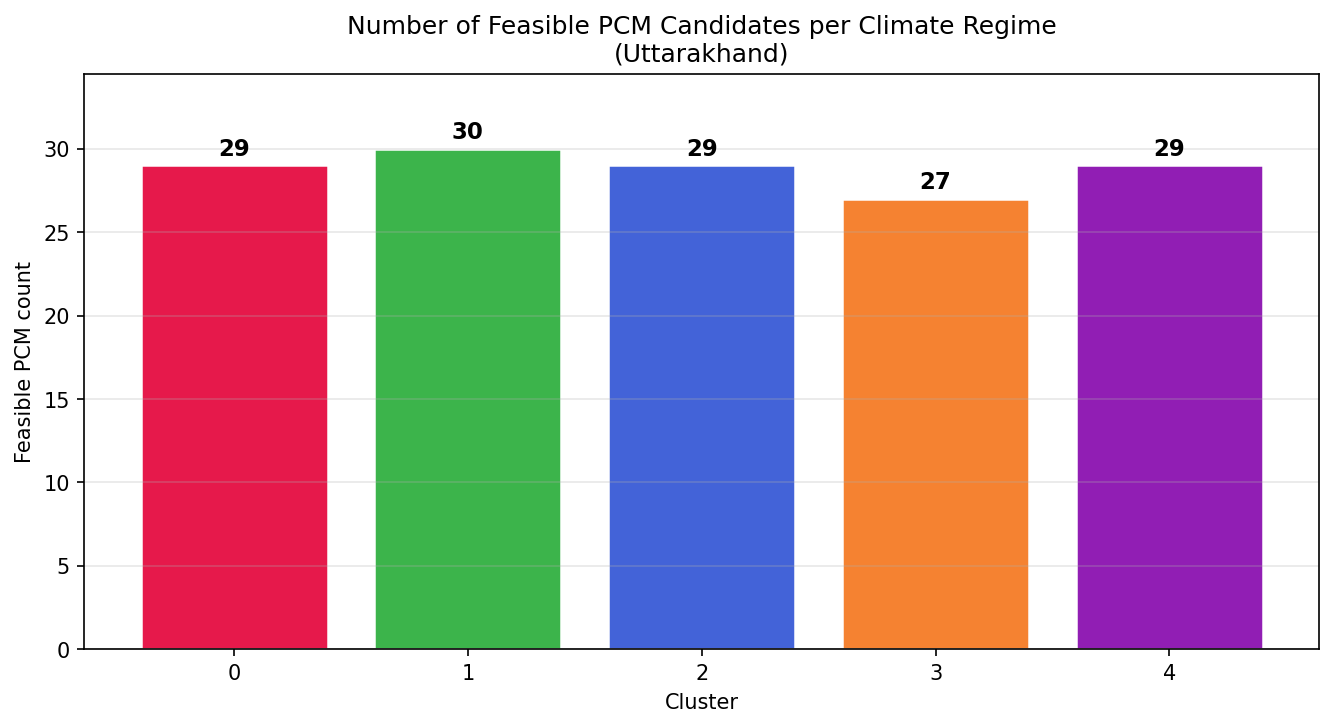
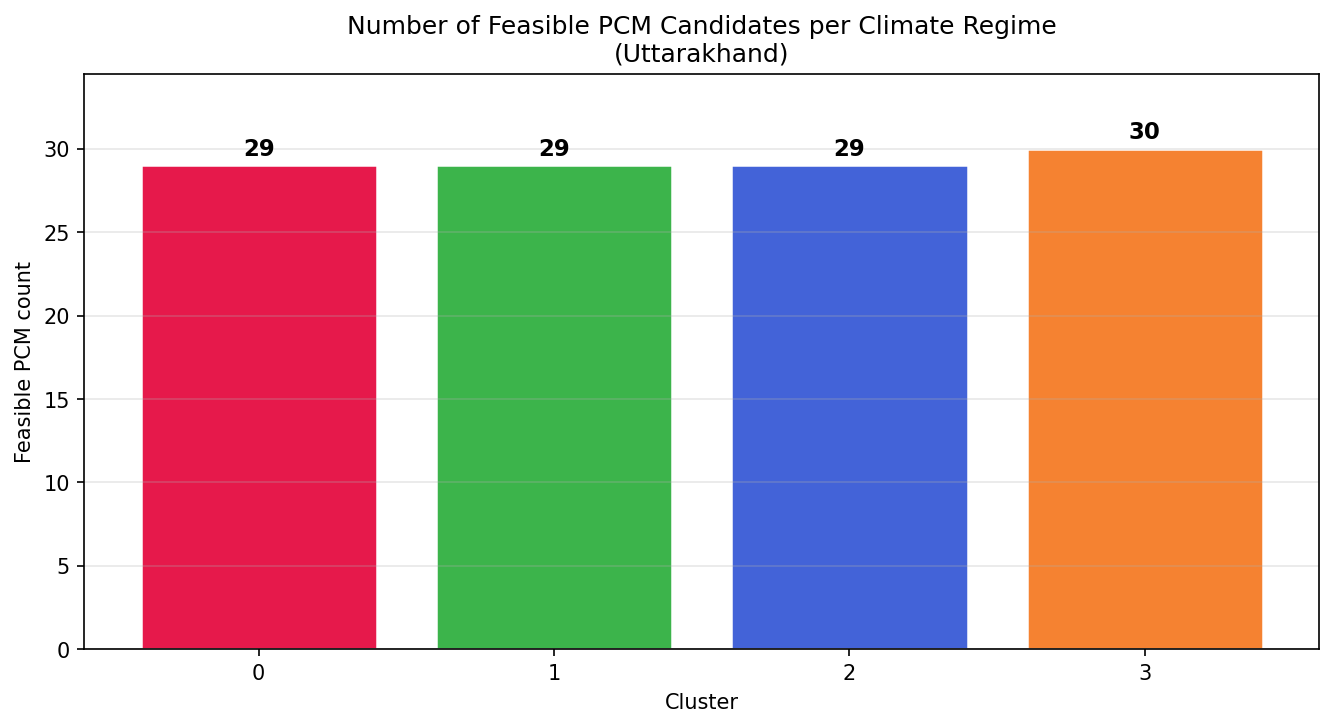
chore(plots): update Uttarakhand feasibility survivors plots for four clusters

diff --git a/public/plots/uttarakhand/05_pcm_survivors_per_cluster_interactive.html b/public/plots/uttarakhand/05_pcm_survivors_per_cluster_interactive.html
@@ -6,6 +6,6 @@
 </head>
 <body>
     <div style="height:100%; width:100%;">                        <script>window.PlotlyConfig = {MathJaxConfig: 'local'};</script>
-        <script charset="utf-8" src="https://cdn.plot.ly/plotly-4.1.1.min.js" integrity="sha256-O24V1F27f8pb0glCkelh3cVHLNiHAJ5gCaVtq2aNch8=" crossorigin="anonymous"></script>                <div id="88eee6d6-3470-4567-90c2-72d3b29c8f0e" class="plotly-graph-div" style="height:100%; width:100%;"></div>            <script>                window.PLOTLYENV=window.PLOTLYENV || {};                                if (document.getElementById("88eee6d6-3470-4567-90c2-72d3b29c8f0e")) {                    Plotly.newPlot(                        "88eee6d6-3470-4567-90c2-72d3b29c8f0e",                        [{"hovertemplate":"color=0\u003cbr\u003ex=%{x}\u003cbr\u003en=%{text}\u003cextra\u003e\u003c\u002fextra\u003e","legendgroup":"0","marker":{"color":"rgb(228,26,28)","pattern":{"shape":""}},"name":"0","orientation":"v","showlegend":true,"text":{"dtype":"f8","bdata":"AAAAAAAAPUA="},"textposition":"outside","x":["0"],"xaxis":"x","y":{"dtype":"i1","bdata":"HQ=="},"yaxis":"y","type":"bar"},{"hovertemplate":"color=1\u003cbr\u003ex=%{x}\u003cbr\u003en=%{text}\u003cextra\u003e\u003c\u002fextra\u003e","legendgroup":"1","marker":{"color":"rgb(55,126,184)","pattern":{"shape":""}},"name":"1","orientation":"v","showlegend":true,"text":{"dtype":"f8","bdata":"AAAAAAAAPkA="},"textposition":"outside","x":["1"],"xaxis":"x","y":{"dtype":"i1","bdata":"Hg=="},"yaxis":"y","type":"bar"},{"hovertemplate":"color=2\u003cbr\u003ex=%{x}\u003cbr\u003en=%{text}\u003cextra\u003e\u003c\u002fextra\u003e","legendgroup":"2","marker":{"color":"rgb(77,175,74)","pattern":{"shape":""}},"name":"2","orientation":"v","showlegend":true,"text":{"dtype":"f8","bdata":"AAAAAAAAPUA="},"textposition":"outside","x":["2"],"xaxis":"x","y":{"dtype":"i1","bdata":"HQ=="},"yaxis":"y","type":"bar"},{"hovertemplate":"color=3\u003cbr\u003ex=%{x}\u003cbr\u003en=%{text}\u003cextra\u003e\u003c\u002fextra\u003e","legendgroup":"3","marker":{"color":"rgb(152,78,163)","pattern":{"shape":""}},"name":"3","orientation":"v","showlegend":true,"text":{"dtype":"f8","bdata":"AAAAAAAAO0A="},"textposition":"outside","x":["3"],"xaxis":"x","y":{"dtype":"i1","bdata":"Gw=="},"yaxis":"y","type":"bar"},{"hovertemplate":"color=4\u003cbr\u003ex=%{x}\u003cbr\u003en=%{text}\u003cextra\u003e\u003c\u002fextra\u003e","legendgroup":"4","marker":{"color":"rgb(255,127,0)","pattern":{"shape":""}},"name":"4","orientation":"v","showlegend":true,"text":{"dtype":"f8","bdata":"AAAAAAAAPUA="},"textposition":"outside","x":["4"],"xaxis":"x","y":{"dtype":"i1","bdata":"HQ=="},"yaxis":"y","type":"bar"}],                        {"template":{"data":{"barpolar":[{"marker":{"line":{"color":"white","width":0.5},"pattern":{"fillmode":"overlay","size":10,"solidity":0.2}},"type":"barpolar"}],"bar":[{"error_x":{"color":"#2a3f5f"},"error_y":{"color":"#2a3f5f"},"marker":{"line":{"color":"white","width":0.5},"pattern":{"fillmode":"overlay","size":10,"solidity":0.2}},"type":"bar"}],"carpet":[{"aaxis":{"endlinecolor":"#2a3f5f","gridcolor":"#C8D4E3","linecolor":"#C8D4E3","minorgridcolor":"#C8D4E3","startlinecolor":"#2a3f5f"},"baxis":{"endlinecolor":"#2a3f5f","gridcolor":"#C8D4E3","linecolor":"#C8D4E3","minorgridcolor":"#C8D4E3","startlinecolor":"#2a3f5f"},"type":"carpet"}],"choropleth":[{"colorbar":{"outlinewidth":0,"ticks":""},"type":"choropleth"}],"contourcarpet":[{"colorbar":{"outlinewidth":0,"ticks":""},"type":"contourcarpet"}],"contour":[{"colorbar":{"outlinewidth":0,"ticks":""},"colorscale":[[0.0,"#0d0887"],[0.1111111111111111,"#46039f"],[0.2222222222222222,"#7201a8"],[0.3333333333333333,"#9c179e"],[0.4444444444444444,"#bd3786"],[0.5555555555555556,"#d8576b"],[0.6666666666666666,"#ed7953"],[0.7777777777777778,"#fb9f3a"],[0.8888888888888888,"#fdca26"],[1.0,"#f0f921"]],"type":"contour"}],"heatmap":[{"colorbar":{"outlinewidth":0,"ticks":""},"colorscale":[[0.0,"#0d0887"],[0.1111111111111111,"#46039f"],[0.2222222222222222,"#7201a8"],[0.3333333333333333,"#9c179e"],[0.4444444444444444,"#bd3786"],[0.5555555555555556,"#d8576b"],[0.6666666666666666,"#ed7953"],[0.7777777777777778,"#fb9f3a"],[0.8888888888888888,"#fdca26"],[1.0,"#f0f921"]],"type":"heatmap"}],"histogram2dcontour":[{"colorbar":{"outlinewidth":0,"ticks":""},"colorscale":[[0.0,"#0d0887"],[0.1111111111111111,"#46039f"],[0.2222222222222222,"#7201a8"],[0.3333333333333333,"#9c179e"],[0.4444444444444444,"#bd3786"],[0.5555555555555556,"#d8576b"],[0.6666666666666666,"#ed7953"],[0.7777777777777778,"#fb9f3a"],[0.8888888888888888,"#fdca26"],[1.0,"#f0f921"]],"type":"histogram2dcontour"}],"histogram2d":[{"colorbar":{"outlinewidth":0,"ticks":""},"colorscale":[[0.0,"#0d0887"],[0.1111111111111111,"#46039f"],[0.2222222222222222,"#7201a8"],[0.3333333333333333,"#9c179e"],[0.4444444444444444,"#bd3786"],[0.5555555555555556,"#d8576b"],[0.6666666666666666,"#ed7953"],[0.7777777777777778,"#fb9f3a"],[0.8888888888888888,"#fdca26"],[1.0,"#f0f921"]],"type":"histogram2d"}],"histogram":[{"marker":{"pattern":{"fillmode":"overlay","size":10,"solidity":0.2}},"type":"histogram"}],"mesh3d":[{"colorbar":{"outlinewidth":0,"ticks":""},"type":"mesh3d"}],"parcoords":[{"line":{"colorbar":{"outlinewidth":0,"ticks":""}},"type":"parcoords"}],"pie":[{"automargin":true,"type":"pie"}],"scatter3d":[{"line":{"colorbar":{"outlinewidth":0,"ticks":""}},"marker":{"colorbar":{"outlinewidth":0,"ticks":""}},"type":"scatter3d"}],"scattercarpet":[{"marker":{"colorbar":{"outlinewidth":0,"ticks":""}},"type":"scattercarpet"}],"scattergeo":[{"marker":{"colorbar":{"outlinewidth":0,"ticks":""}},"type":"scattergeo"}],"scattergl":[{"marker":{"colorbar":{"outlinewidth":0,"ticks":""}},"type":"scattergl"}],"scattermap":[{"marker":{"colorbar":{"outlinewidth":0,"ticks":""}},"type":"scattermap"}],"scatterpolargl":[{"marker":{"colorbar":{"outlinewidth":0,"ticks":""}},"type":"scatterpolargl"}],"scatterpolar":[{"marker":{"colorbar":{"outlinewidth":0,"ticks":""}},"type":"scatterpolar"}],"scatter":[{"fillpattern":{"fillmode":"overlay","size":10,"solidity":0.2},"type":"scatter"}],"scatterternary":[{"marker":{"colorbar":{"outlinewidth":0,"ticks":""}},"type":"scatterternary"}],"surface":[{"colorbar":{"outlinewidth":0,"ticks":""},"colorscale":[[0.0,"#0d0887"],[0.1111111111111111,"#46039f"],[0.2222222222222222,"#7201a8"],[0.3333333333333333,"#9c179e"],[0.4444444444444444,"#bd3786"],[0.5555555555555556,"#d8576b"],[0.6666666666666666,"#ed7953"],[0.7777777777777778,"#fb9f3a"],[0.8888888888888888,"#fdca26"],[1.0,"#f0f921"]],"type":"surface"}],"table":[{"cells":{"fill":{"color":"#EBF0F8"},"line":{"color":"white"}},"header":{"fill":{"color":"#C8D4E3"},"line":{"color":"white"}},"type":"table"}]},"layout":{"annotationdefaults":{"arrowcolor":"#2a3f5f","arrowhead":0,"arrowwidth":1},"autotypenumbers":"strict","coloraxis":{"colorbar":{"outlinewidth":0,"ticks":""}},"colorscale":{"diverging":[[0,"#8e0152"],[0.1,"#c51b7d"],[0.2,"#de77ae"],[0.3,"#f1b6da"],[0.4,"#fde0ef"],[0.5,"#f7f7f7"],[0.6,"#e6f5d0"],[0.7,"#b8e186"],[0.8,"#7fbc41"],[0.9,"#4d9221"],[1,"#276419"]],"sequential":[[0.0,"#0d0887"],[0.1111111111111111,"#46039f"],[0.2222222222222222,"#7201a8"],[0.3333333333333333,"#9c179e"],[0.4444444444444444,"#bd3786"],[0.5555555555555556,"#d8576b"],[0.6666666666666666,"#ed7953"],[0.7777777777777778,"#fb9f3a"],[0.8888888888888888,"#fdca26"],[1.0,"#f0f921"]],"sequentialminus":[[0.0,"#0d0887"],[0.1111111111111111,"#46039f"],[0.2222222222222222,"#7201a8"],[0.3333333333333333,"#9c179e"],[0.4444444444444444,"#bd3786"],[0.5555555555555556,"#d8576b"],[0.6666666666666666,"#ed7953"],[0.7777777777777778,"#fb9f3a"],[0.8888888888888888,"#fdca26"],[1.0,"#f0f921"]]},"colorway":["#636efa","#EF553B","#00cc96","#ab63fa","#FFA15A","#19d3f3","#FF6692","#B6E880","#FF97FF","#FECB52"],"font":{"color":"#2a3f5f"},"geo":{"bgcolor":"white","lakecolor":"white","landcolor":"white","showlakes":true,"showland":true,"subunitcolor":"#C8D4E3"},"hoverlabel":{"align":"left"},"hovermode":"closest","paper_bgcolor":"white","plot_bgcolor":"white","polar":{"angularaxis":{"gridcolor":"#EBF0F8","linecolor":"#EBF0F8","ticks":""},"bgcolor":"white","radialaxis":{"gridcolor":"#EBF0F8","linecolor":"#EBF0F8","ticks":""}},"scene":{"xaxis":{"backgroundcolor":"white","gridcolor":"#DFE8F3","gridwidth":2,"linecolor":"#EBF0F8","showbackground":true,"ticks":"","zerolinecolor":"#EBF0F8"},"yaxis":{"backgroundcolor":"white","gridcolor":"#DFE8F3","gridwidth":2,"linecolor":"#EBF0F8","showbackground":true,"ticks":"","zerolinecolor":"#EBF0F8"},"zaxis":{"backgroundcolor":"white","gridcolor":"#DFE8F3","gridwidth":2,"linecolor":"#EBF0F8","showbackground":true,"ticks":"","zerolinecolor":"#EBF0F8"}},"shapedefaults":{"line":{"color":"#2a3f5f"}},"ternary":{"aaxis":{"gridcolor":"#DFE8F3","linecolor":"#A2B1C6","ticks":""},"baxis":{"gridcolor":"#DFE8F3","linecolor":"#A2B1C6","ticks":""},"bgcolor":"white","caxis":{"gridcolor":"#DFE8F3","linecolor":"#A2B1C6","ticks":""}},"title":{"x":0.05},"xaxis":{"automargin":true,"gridcolor":"#EBF0F8","linecolor":"#EBF0F8","ticks":"","title":{"standoff":15},"zerolinecolor":"#EBF0F8","zerolinewidth":2},"yaxis":{"automargin":true,"gridcolor":"#EBF0F8","linecolor":"#EBF0F8","ticks":"","title":{"standoff":15},"zerolinecolor":"#EBF0F8","zerolinewidth":2}}},"xaxis":{"anchor":"y","domain":[0.0,1.0],"title":{"text":"x"}},"yaxis":{"anchor":"x","domain":[0.0,1.0],"title":{"text":"n"}},"legend":{"title":{"text":"color"},"tracegroupgap":0},"title":{"text":"Feasible PCM Candidates per Climate Regime (Uttarakhand)"},"barmode":"relative"},                        {"responsive": true}                    )                };            </script>        </div>
+        <script charset="utf-8" src="https://cdn.plot.ly/plotly-4.0.0.min.js" integrity="sha256-FEYfO0yRyLtZCpnW0Dw/0DHKQO7Afrq3ml4+rBB818o=" crossorigin="anonymous"></script>                <div id="3babb47c-dd2b-471f-b771-c5171b6a5bf5" class="plotly-graph-div" style="height:100%; width:100%;"></div>            <script>                window.PLOTLYENV=window.PLOTLYENV || {};                                if (document.getElementById("3babb47c-dd2b-471f-b771-c5171b6a5bf5")) {                    Plotly.newPlot(                        "3babb47c-dd2b-471f-b771-c5171b6a5bf5",                        [{"hovertemplate":"color=0\u003cbr\u003ex=%{x}\u003cbr\u003en=%{text}\u003cextra\u003e\u003c\u002fextra\u003e","legendgroup":"0","marker":{"color":"rgb(228,26,28)","pattern":{"shape":""}},"name":"0","orientation":"v","showlegend":true,"text":{"dtype":"f8","bdata":"AAAAAAAAPUA="},"textposition":"outside","x":["0"],"xaxis":"x","y":{"dtype":"i1","bdata":"HQ=="},"yaxis":"y","type":"bar"},{"hovertemplate":"color=1\u003cbr\u003ex=%{x}\u003cbr\u003en=%{text}\u003cextra\u003e\u003c\u002fextra\u003e","legendgroup":"1","marker":{"color":"rgb(55,126,184)","pattern":{"shape":""}},"name":"1","orientation":"v","showlegend":true,"text":{"dtype":"f8","bdata":"AAAAAAAAPUA="},"textposition":"outside","x":["1"],"xaxis":"x","y":{"dtype":"i1","bdata":"HQ=="},"yaxis":"y","type":"bar"},{"hovertemplate":"color=2\u003cbr\u003ex=%{x}\u003cbr\u003en=%{text}\u003cextra\u003e\u003c\u002fextra\u003e","legendgroup":"2","marker":{"color":"rgb(77,175,74)","pattern":{"shape":""}},"name":"2","orientation":"v","showlegend":true,"text":{"dtype":"f8","bdata":"AAAAAAAAPUA="},"textposition":"outside","x":["2"],"xaxis":"x","y":{"dtype":"i1","bdata":"HQ=="},"yaxis":"y","type":"bar"},{"hovertemplate":"color=3\u003cbr\u003ex=%{x}\u003cbr\u003en=%{text}\u003cextra\u003e\u003c\u002fextra\u003e","legendgroup":"3","marker":{"color":"rgb(152,78,163)","pattern":{"shape":""}},"name":"3","orientation":"v","showlegend":true,"text":{"dtype":"f8","bdata":"AAAAAAAAPkA="},"textposition":"outside","x":["3"],"xaxis":"x","y":{"dtype":"i1","bdata":"Hg=="},"yaxis":"y","type":"bar"}],                        {"template":{"data":{"barpolar":[{"marker":{"line":{"color":"white","width":0.5},"pattern":{"fillmode":"overlay","size":10,"solidity":0.2}},"type":"barpolar"}],"bar":[{"error_x":{"color":"#2a3f5f"},"error_y":{"color":"#2a3f5f"},"marker":{"line":{"color":"white","width":0.5},"pattern":{"fillmode":"overlay","size":10,"solidity":0.2}},"type":"bar"}],"carpet":[{"aaxis":{"endlinecolor":"#2a3f5f","gridcolor":"#C8D4E3","linecolor":"#C8D4E3","minorgridcolor":"#C8D4E3","startlinecolor":"#2a3f5f"},"baxis":{"endlinecolor":"#2a3f5f","gridcolor":"#C8D4E3","linecolor":"#C8D4E3","minorgridcolor":"#C8D4E3","startlinecolor":"#2a3f5f"},"type":"carpet"}],"choropleth":[{"colorbar":{"outlinewidth":0,"ticks":""},"type":"choropleth"}],"contourcarpet":[{"colorbar":{"outlinewidth":0,"ticks":""},"type":"contourcarpet"}],"contour":[{"colorbar":{"outlinewidth":0,"ticks":""},"colorscale":[[0.0,"#0d0887"],[0.1111111111111111,"#46039f"],[0.2222222222222222,"#7201a8"],[0.3333333333333333,"#9c179e"],[0.4444444444444444,"#bd3786"],[0.5555555555555556,"#d8576b"],[0.6666666666666666,"#ed7953"],[0.7777777777777778,"#fb9f3a"],[0.8888888888888888,"#fdca26"],[1.0,"#f0f921"]],"type":"contour"}],"heatmap":[{"colorbar":{"outlinewidth":0,"ticks":""},"colorscale":[[0.0,"#0d0887"],[0.1111111111111111,"#46039f"],[0.2222222222222222,"#7201a8"],[0.3333333333333333,"#9c179e"],[0.4444444444444444,"#bd3786"],[0.5555555555555556,"#d8576b"],[0.6666666666666666,"#ed7953"],[0.7777777777777778,"#fb9f3a"],[0.8888888888888888,"#fdca26"],[1.0,"#f0f921"]],"type":"heatmap"}],"histogram2dcontour":[{"colorbar":{"outlinewidth":0,"ticks":""},"colorscale":[[0.0,"#0d0887"],[0.1111111111111111,"#46039f"],[0.2222222222222222,"#7201a8"],[0.3333333333333333,"#9c179e"],[0.4444444444444444,"#bd3786"],[0.5555555555555556,"#d8576b"],[0.6666666666666666,"#ed7953"],[0.7777777777777778,"#fb9f3a"],[0.8888888888888888,"#fdca26"],[1.0,"#f0f921"]],"type":"histogram2dcontour"}],"histogram2d":[{"colorbar":{"outlinewidth":0,"ticks":""},"colorscale":[[0.0,"#0d0887"],[0.1111111111111111,"#46039f"],[0.2222222222222222,"#7201a8"],[0.3333333333333333,"#9c179e"],[0.4444444444444444,"#bd3786"],[0.5555555555555556,"#d8576b"],[0.6666666666666666,"#ed7953"],[0.7777777777777778,"#fb9f3a"],[0.8888888888888888,"#fdca26"],[1.0,"#f0f921"]],"type":"histogram2d"}],"histogram":[{"marker":{"pattern":{"fillmode":"overlay","size":10,"solidity":0.2}},"type":"histogram"}],"mesh3d":[{"colorbar":{"outlinewidth":0,"ticks":""},"type":"mesh3d"}],"parcoords":[{"line":{"colorbar":{"outlinewidth":0,"ticks":""}},"type":"parcoords"}],"pie":[{"automargin":true,"type":"pie"}],"scatter3d":[{"line":{"colorbar":{"outlinewidth":0,"ticks":""}},"marker":{"colorbar":{"outlinewidth":0,"ticks":""}},"type":"scatter3d"}],"scattercarpet":[{"marker":{"colorbar":{"outlinewidth":0,"ticks":""}},"type":"scattercarpet"}],"scattergeo":[{"marker":{"colorbar":{"outlinewidth":0,"ticks":""}},"type":"scattergeo"}],"scattergl":[{"marker":{"colorbar":{"outlinewidth":0,"ticks":""}},"type":"scattergl"}],"scattermap":[{"marker":{"colorbar":{"outlinewidth":0,"ticks":""}},"type":"scattermap"}],"scatterpolargl":[{"marker":{"colorbar":{"outlinewidth":0,"ticks":""}},"type":"scatterpolargl"}],"scatterpolar":[{"marker":{"colorbar":{"outlinewidth":0,"ticks":""}},"type":"scatterpolar"}],"scatter":[{"fillpattern":{"fillmode":"overlay","size":10,"solidity":0.2},"type":"scatter"}],"scatterternary":[{"marker":{"colorbar":{"outlinewidth":0,"ticks":""}},"type":"scatterternary"}],"surface":[{"colorbar":{"outlinewidth":0,"ticks":""},"colorscale":[[0.0,"#0d0887"],[0.1111111111111111,"#46039f"],[0.2222222222222222,"#7201a8"],[0.3333333333333333,"#9c179e"],[0.4444444444444444,"#bd3786"],[0.5555555555555556,"#d8576b"],[0.6666666666666666,"#ed7953"],[0.7777777777777778,"#fb9f3a"],[0.8888888888888888,"#fdca26"],[1.0,"#f0f921"]],"type":"surface"}],"table":[{"cells":{"fill":{"color":"#EBF0F8"},"line":{"color":"white"}},"header":{"fill":{"color":"#C8D4E3"},"line":{"color":"white"}},"type":"table"}]},"layout":{"annotationdefaults":{"arrowcolor":"#2a3f5f","arrowhead":0,"arrowwidth":1},"autotypenumbers":"strict","coloraxis":{"colorbar":{"outlinewidth":0,"ticks":""}},"colorscale":{"diverging":[[0,"#8e0152"],[0.1,"#c51b7d"],[0.2,"#de77ae"],[0.3,"#f1b6da"],[0.4,"#fde0ef"],[0.5,"#f7f7f7"],[0.6,"#e6f5d0"],[0.7,"#b8e186"],[0.8,"#7fbc41"],[0.9,"#4d9221"],[1,"#276419"]],"sequential":[[0.0,"#0d0887"],[0.1111111111111111,"#46039f"],[0.2222222222222222,"#7201a8"],[0.3333333333333333,"#9c179e"],[0.4444444444444444,"#bd3786"],[0.5555555555555556,"#d8576b"],[0.6666666666666666,"#ed7953"],[0.7777777777777778,"#fb9f3a"],[0.8888888888888888,"#fdca26"],[1.0,"#f0f921"]],"sequentialminus":[[0.0,"#0d0887"],[0.1111111111111111,"#46039f"],[0.2222222222222222,"#7201a8"],[0.3333333333333333,"#9c179e"],[0.4444444444444444,"#bd3786"],[0.5555555555555556,"#d8576b"],[0.6666666666666666,"#ed7953"],[0.7777777777777778,"#fb9f3a"],[0.8888888888888888,"#fdca26"],[1.0,"#f0f921"]]},"colorway":["#636efa","#EF553B","#00cc96","#ab63fa","#FFA15A","#19d3f3","#FF6692","#B6E880","#FF97FF","#FECB52"],"font":{"color":"#2a3f5f"},"geo":{"bgcolor":"white","lakecolor":"white","landcolor":"white","showlakes":true,"showland":true,"subunitcolor":"#C8D4E3"},"hoverlabel":{"align":"left"},"hovermode":"closest","paper_bgcolor":"white","plot_bgcolor":"white","polar":{"angularaxis":{"gridcolor":"#EBF0F8","linecolor":"#EBF0F8","ticks":""},"bgcolor":"white","radialaxis":{"gridcolor":"#EBF0F8","linecolor":"#EBF0F8","ticks":""}},"scene":{"xaxis":{"backgroundcolor":"white","gridcolor":"#DFE8F3","gridwidth":2,"linecolor":"#EBF0F8","showbackground":true,"ticks":"","zerolinecolor":"#EBF0F8"},"yaxis":{"backgroundcolor":"white","gridcolor":"#DFE8F3","gridwidth":2,"linecolor":"#EBF0F8","showbackground":true,"ticks":"","zerolinecolor":"#EBF0F8"},"zaxis":{"backgroundcolor":"white","gridcolor":"#DFE8F3","gridwidth":2,"linecolor":"#EBF0F8","showbackground":true,"ticks":"","zerolinecolor":"#EBF0F8"}},"shapedefaults":{"line":{"color":"#2a3f5f"}},"ternary":{"aaxis":{"gridcolor":"#DFE8F3","linecolor":"#A2B1C6","ticks":""},"baxis":{"gridcolor":"#DFE8F3","linecolor":"#A2B1C6","ticks":""},"bgcolor":"white","caxis":{"gridcolor":"#DFE8F3","linecolor":"#A2B1C6","ticks":""}},"title":{"x":0.05},"xaxis":{"automargin":true,"gridcolor":"#EBF0F8","linecolor":"#EBF0F8","ticks":"","title":{"standoff":15},"zerolinecolor":"#EBF0F8","zerolinewidth":2},"yaxis":{"automargin":true,"gridcolor":"#EBF0F8","linecolor":"#EBF0F8","ticks":"","title":{"standoff":15},"zerolinecolor":"#EBF0F8","zerolinewidth":2}}},"xaxis":{"anchor":"y","domain":[0.0,1.0],"title":{"text":"x"}},"yaxis":{"anchor":"x","domain":[0.0,1.0],"title":{"text":"n"}},"legend":{"title":{"text":"color"},"tracegroupgap":0},"title":{"text":"Feasible PCM Candidates per Climate Regime (Uttarakhand)"},"barmode":"relative"},                        {"responsive": true}                    )                };            </script>        </div>
 </body>
 </html>
